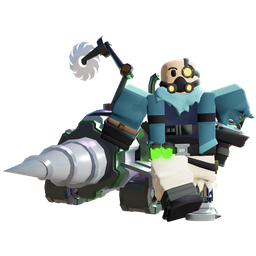
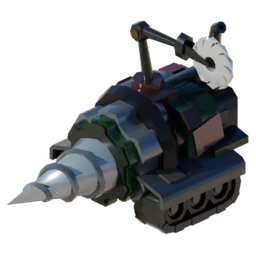
Add Fisherman item pictures, Hephaestus mech and chainsaw tiers, Jade Hammer tiers, new Drill picture
Claude-Session: https://claude.ai/code/session_01EMUEepYZf4gLEQWJhusS3j

diff --git a/kit-machine.html b/kit-machine.html
@@ -169,7 +169,7 @@ var KITS = [
 {"name":"Ember","img":"images/kits/ember.webp","cls":"Fighter","tier":"","diff":"","hp":"","desc":"Charge the Blade of Fire to ignite in a deadly spin! Striking enemies OR killing Lumen will upgrade your ability to a much more powerful spin.","adv":"","items":[{"name":"Infernal Saber","img":"images/items/infernal-saber.png"}]},
 {"name":"Evelynn","img":"images/kits/evelynn.webp","cls":"Fighter","tier":"","diff":"","hp":"","desc":"Damage enemies to attract nearby spirits. Consume spirits to instantly teleport and gain an attack buff for a short duration.","adv":"","items":[]},
 {"name":"Farmer Cletus","img":"images/kits/farmer-cletus.webp","cls":"Economy","tier":"","diff":"","hp":"","desc":"Invest your resources into crops that yield more diamonds and emeralds.","adv":"","items":[{"name":"Melon Seeds","img":"images/items/melon-seeds.png"},{"name":"Carrot Seeds","img":"images/items/carrot-seeds.png"},{"name":"Pumpkin Seeds","img":"images/items/pumpkin-seeds.png"}]},
-{"name":"Fisherman","img":"images/kits/fisherman.webp","cls":"Economy","tier":"","diff":"","hp":"","desc":"Why fight when you can fish? Catch resources and Fish Coins, upgrade your rod, and use bait to reel in rarer rewards.","adv":"","items":[{"name":"Beginning Fishing Rod","img":"images/items/fishing-rod.png"},{"name":"Novice Fishing Rod","img":"images/items/fishing-rod.png"},{"name":"Master Fishing Rod","img":"images/items/fishing-rod.png"},{"name":"Fish Coin","img":"images/items/fish-coin.png"},{"name":"Obsidian","img":""},{"name":"Coral Blocks","img":"images/items/coral-block.png"},{"name":"Blastproof Ceramic","img":""},{"name":"TNT","img":""},{"name":"Siege TNT","img":""},{"name":"Balloons","img":""},{"name":"Hair Dryer","img":""},{"name":"Charge Shield","img":"images/items/charge-shield.png"},{"name":"Rocket Launcher","img":"images/items/rocket-launcher.png"},{"name":"Rockets","img":""},{"name":"Knockback Fish","img":""},{"name":"Telepearls","img":""},{"name":"Soaked Warfists","img":"images/items/soaked-warfists.png"},{"name":"Rusty Nocturne","img":"images/items/rusty-nocturne.png"},{"name":"Sunken Paragon","img":"images/items/sunken-paragon.png"},{"name":"Soggy Deathbloom","img":"images/items/soggy-deathbloom.png"}]},
+{"name":"Fisherman","img":"images/kits/fisherman.webp","cls":"Economy","tier":"","diff":"","hp":"","desc":"Why fight when you can fish? Catch resources and Fish Coins, upgrade your rod, and use bait to reel in rarer rewards.","adv":"","items":[{"name":"Beginning Fishing Rod","img":"images/items/fishing-rod.png"},{"name":"Novice Fishing Rod","img":"images/items/fishing-rod.png"},{"name":"Master Fishing Rod","img":"images/items/fishing-rod.png"},{"name":"Fish Coin","img":"images/items/fish-coin.png"},{"name":"Obsidian","img":"images/items/obsidian.png"},{"name":"Coral Blocks","img":"images/items/coral-block.png"},{"name":"Blastproof Ceramic","img":"images/items/blastproof-ceramic.png"},{"name":"TNT","img":"images/items/tnt.png"},{"name":"Siege TNT","img":"images/items/siege-tnt.png"},{"name":"Balloons","img":"images/items/balloons.png"},{"name":"Hair Dryer","img":"images/items/hair-dryer.png"},{"name":"Charge Shield","img":"images/items/charge-shield.png"},{"name":"Rocket Launcher","img":"images/items/rocket-launcher.png"},{"name":"Rockets","img":"images/items/rockets.png"},{"name":"Knockback Fish","img":"images/items/knockback-fish.png"},{"name":"Telepearls","img":"images/items/telepearls.png"},{"name":"Soaked Warfists","img":"images/items/soaked-warfists.png"},{"name":"Rusty Nocturne","img":"images/items/rusty-nocturne.png"},{"name":"Sunken Paragon","img":"images/items/sunken-paragon.png"},{"name":"Soggy Deathbloom","img":"images/items/soggy-deathbloom.png"}]},
 {"name":"Flora","img":"images/kits/flora.webp","cls":"Movement","tier":"","diff":"","hp":"","desc":"Use explosive beehives to deal high damage to your enemies or throw them at yourself for a massive launch.","adv":"","items":[{"name":"Beehive Grenade","img":"images/items/beehive-grenade.png"}]},
 {"name":"Fortuna","img":"images/kits/fortuna.webp","cls":"Fighter","tier":"","diff":"","hp":"","desc":"Summon cards to attack players! Deal damage to enhance your cards with different effects.","adv":"","items":[]},
 {"name":"Freiya","img":"images/kits/freiya.webp","cls":"Fighter","tier":"","diff":"","hp":"","desc":"Dealing damage will apply stacks of Frost. At four stacks, Frost is consumed and applies Frostbite to the target, making them fragile. Emerald Sword is replaced by the Ice Sword, which applies two stacks per hit. Use your Frost Explosion ability to immediately deal damage to nearby targets with stacks of Frost.","adv":"","items":[{"name":"Ice Sword","img":"images/items/ice-sword.png"}]},
@@ -180,12 +180,12 @@ var KITS = [
 {"name":"Grim Reaper","img":"images/kits/grim-reaper.webp","cls":"Fighter","tier":"","diff":"","hp":"","desc":"Consuming enemy souls grants health regen, movespeed and invulnerability for 2.5s. Combat is disabled while consuming.","adv":"","items":[]},
 {"name":"Grove","img":"images/kits/grove.webp","cls":"Economy","tier":"","diff":"","hp":"","desc":"Purchase seeds and grow them into flowers that buff allies and enhance generator production. Keep your flowers alive by providing them with spirit energy gathered around the map to prevent them from withering.","adv":"","items":[{"name":"Crystalheart Seed","img":"images/items/crystalheart-seed.png"},{"name":"Soulvine Seed","img":"images/items/soulvine-seed.png"},{"name":"Tearbloom Seed","img":"images/items/tearbloom-seed.png"}]},
 {"name":"Hannah","img":"images/kits/hannah.webp","cls":"Fighter","tier":"","diff":"","hp":"","desc":"Activate your Execute ability to defeat a nearby enemy with low health! Hannah's base health is reduced by 10%.","adv":"","items":[]},
-{"name":"Hephaestus","img":"images/kits/hephaestus.webp","cls":"Tank","tier":"","diff":"","hp":"","desc":"Upgrade your Talos Mech to increase shield and damage! Activate Self-Destruct to deal massive damage.","adv":"","items":[{"name":"Mech","img":"images/items/mech.png"},{"name":"Chainsaw","img":"images/items/chainsaw.png"},{"name":"Tinker's Wrench","img":"images/items/tinker-s-wrench.png"}]},
+{"name":"Hephaestus","img":"images/kits/hephaestus.webp","cls":"Tank","tier":"","diff":"","hp":"","desc":"Upgrade your Talos Mech to increase shield and damage! Activate Self-Destruct to deal massive damage.","adv":"","items":[{"name":"Wood Mech","img":"images/items/mech-wood.png"},{"name":"Iron Mech","img":"images/items/mech-iron.png"},{"name":"Diamond Mech","img":"images/items/mech-diamond.png"},{"name":"Emerald Mech","img":"images/items/mech-emerald.png"},{"name":"Void Mech","img":"images/items/mech-void.png"},{"name":"Wood Chainsaw","img":"images/items/chainsaw-wood.png"},{"name":"Iron Chainsaw","img":"images/items/chainsaw-iron.png"},{"name":"Diamond Chainsaw","img":"images/items/chainsaw-diamond.png"},{"name":"Emerald Chainsaw","img":"images/items/chainsaw-emerald.png"},{"name":"Void Chainsaw","img":"images/items/chainsaw-void.png"},{"name":"Tinker's Wrench","img":"images/items/tinker-s-wrench.png"}]},
 {"name":"Ignis","img":"images/kits/ignis.webp","cls":"Support","tier":"","diff":"","hp":"","desc":"Use a spirit bridge to travel around the map healing your allies and providing them with armor buffs.","adv":"","items":[{"name":"Spirit Bridge","img":"images/items/spirit-bridge.png"}]},
 {"name":"Infernal Shielder","img":"images/kits/infernal-shielder.webp","cls":"Tank","tier":"","diff":"","hp":"","desc":"Spawn with a massive shield. Gain energy while holding your shield, and raise your shield to deflect incoming projectiles.","adv":"","items":[{"name":"Infernal Shield","img":"images/items/infernal-shield.png"}]},
 {"name":"Isabel","img":"images/kits/isabel.webp","cls":"Fighter","tier":"","diff":"","hp":"","desc":"Upgrade her shield by purchasing better swords. Each upgraded shield will block more damage before breaking. The final upgrade, the Emerald Shield, will block all damage from the first hit. Shields reactivate after 30 [sic] seconds.","adv":"","items":[]},
 {"name":"Jack","img":"images/kits/jack.webp","cls":"Ranged","tier":"","diff":"","hp":"","desc":"Lob bundles of poisonous pumpkin oil across the map.","adv":"","items":[{"name":"Oil Blob","img":"images/items/oil-blob.png"},{"name":"Fire Match","img":"images/items/fire-match.png"}]},
-{"name":"Jade","img":"images/kits/jade.webp","cls":"Movement","tier":"","diff":"","hp":"","desc":"Launch into the air with a giant war hammer. Higher launches deal more slam damage, and the hammer can be upgraded throughout the match.","adv":"","items":[{"name":"Jade Hammer","img":"images/items/jade-hammer.png"}]},
+{"name":"Jade","img":"images/kits/jade.webp","cls":"Movement","tier":"","diff":"","hp":"","desc":"Launch into the air with a giant war hammer. Higher launches deal more slam damage, and the hammer can be upgraded throughout the match.","adv":"","items":[{"name":"Jade Hammer I","img":"images/items/jade-hammer.png"},{"name":"Jade Hammer II","img":"images/items/jade-hammer.png"},{"name":"Jade Hammer III","img":"images/items/jade-hammer.png"}]},
 {"name":"Kaida","img":"images/kits/kaida.webp","cls":"Fighter","tier":"","diff":"","hp":"","desc":"Summon a powerful dragon's claw to swipe multiple enemies at once, or summon a dragon head through a rune below you to damage all surrounding enemies. Upgrade your claw and summon attack by damaging enemies with your summon spell.","adv":"","items":[{"name":"Summoner Claw","img":"images/items/summoner-claw.png"}]},
 {"name":"Kaliyah","img":"images/kits/kaliyah.webp","cls":"Fighter","tier":"","diff":"","hp":"","desc":"A fearsome warrior with a fiery punch!","adv":"","items":[]},
 {"name":"Krystal","img":"images/kits/krystal.webp","cls":"Movement","tier":"","diff":"","hp":"","desc":"Keep moving (especially on frozen blocks!) to increase your momentum and movement speed. At high momentum, trigger jumps to dodge.","adv":"","items":[]},
